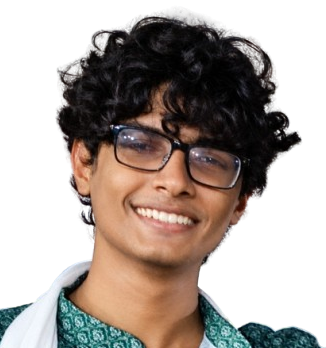
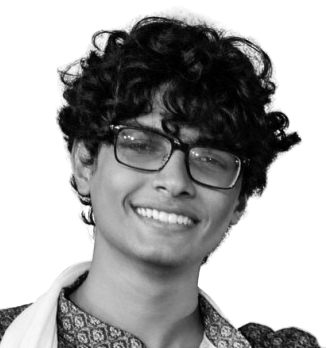
feat: enlarge typography across About section, make tab names always visible, and convert dither veil to grayscale

Changed region(s): [[0.184, 0.2299, 0.9816, 1.0], [0.0, 0.8621, 0.092, 0.977], [0.3374, 0.3448, 0.3681, 0.3736]]

diff --git a/components/about/AboutCanvas.tsx b/components/about/AboutCanvas.tsx
@@ -5,15 +5,6 @@ import DitherVeil from "@/components/effects/DitherVeil";
 import SegmentedHalo from "@/components/about/SegmentedHalo";
 import { ABOUT_SECTIONS, AboutSection } from "@/data/aboutSections";
 
-const CARD_TAGS = [
-  { index: "01", label: "AI / ML", targetCode: "AI / ML" },
-  { index: "02", label: "SYSTEMS", targetCode: "SYSTEMS" },
-  { index: "03", label: "INTELLIGENT APPLICATIONS", targetCode: "BUILDING" },
-  { index: "04", label: "ENGINEERING", targetCode: "ENGINEERING" },
-  { index: "05", label: "RESEARCH", targetCode: "MILESTONES" },
-  { index: "06", label: "EXPLORATION", targetCode: "CURIOSITY" },
-];
-
 export default function AboutCanvas() {
   const [activeSection, setActiveSection] = useState<AboutSection | null>(null);
 
@@ -53,14 +44,14 @@ export default function AboutCanvas() {
           levels={2}
           palette="duotone"
           inkColor="#0a0a0d"
-          paperColor="#d49b6a"
-          contrast={1.2}
+          paperColor="#f2f2f5"
+          contrast={1.25}
           brightness={0}
           revealRadius={250}
           softness={0.65}
           linger={1.0}
-          rimColor="#d49b6a"
-          rim={0.05}
+          rimColor="#ffffff"
+          rim={0.03}
           reverse={false}
           wander={false}
           clickBurst={true}
@@ -71,74 +62,97 @@ export default function AboutCanvas() {
       </div>
 
       {/* Floating Dynamic Telemetry / Section HUD Readout at the bottom */}
-      <div className="absolute bottom-3 sm:bottom-5 left-1/2 -translate-x-1/2 z-30 w-[calc(100%-2rem)] max-w-xl px-2 pointer-events-none">
-        <div className="pointer-events-auto rounded-2xl border border-white/12 bg-background/90 backdrop-blur-xl p-3.5 sm:p-4 text-center shadow-[0_8px_32px_rgba(0,0,0,0.9),_0_0_20px_rgba(212,155,106,0.12)] transition-all duration-300">
+      <div className="absolute bottom-3 sm:bottom-5 left-1/2 -translate-x-1/2 z-30 w-[calc(100%-2rem)] max-w-2xl sm:max-w-3xl px-2 pointer-events-none">
+        <div className="pointer-events-auto rounded-2xl border border-white/15 bg-background/95 backdrop-blur-2xl p-4 sm:p-5 text-center shadow-[0_12px_40px_rgba(0,0,0,0.95),_0_0_24px_rgba(212,155,106,0.18)] transition-all duration-300">
           {activeSection ? (
-            <div className="space-y-1 sm:space-y-1.5 animate-fadeIn">
+            <div className="space-y-2 sm:space-y-2.5 animate-fadeIn">
               <div className="flex items-center justify-between px-1">
                 <div className="flex items-center gap-2">
-                  <span className="font-mono text-[10px] text-accent tracking-widest uppercase">
+                  <span className="font-mono text-xs sm:text-sm text-accent tracking-widest uppercase font-semibold">
                     {activeSection.coordinate}
                   </span>
-                  <span className="inline-block w-1.5 h-1.5 rounded-full bg-accent animate-pulse" />
+                  <span className="inline-block w-2 h-2 rounded-full bg-accent animate-pulse" />
                 </div>
                 <button
                   onClick={() => setActiveSection(null)}
-                  className="font-mono text-[10px] text-muted/60 hover:text-accent uppercase transition-colors px-1.5 py-0.5 rounded border border-white/5 bg-white/[0.02]"
+                  className="font-mono text-xs sm:text-sm text-muted/80 hover:text-accent uppercase transition-colors px-2.5 py-1 rounded-md border border-white/10 bg-white/[0.04]"
                   aria-label="Return to central identity card"
                 >
                   ✕ Close
                 </button>
               </div>
-              <h2 className="text-base sm:text-lg font-light tracking-wide text-foreground uppercase">
+
+              <h2 className="text-xl sm:text-2xl md:text-3xl font-light tracking-wide text-foreground uppercase">
                 {activeSection.title}
               </h2>
-              <p className="text-xs font-mono text-accent/90 italic max-w-lg mx-auto">
+
+              <p className="text-sm sm:text-base font-mono text-accent italic max-w-xl mx-auto">
                 {activeSection.tagline}
               </p>
-              <div className="text-xs text-muted/90 leading-relaxed max-w-xl mx-auto pt-1 max-h-[26vh] overflow-y-auto whitespace-pre-line text-left px-1 sm:px-3">
+
+              <div className="text-sm sm:text-base text-muted/95 leading-relaxed max-w-2xl mx-auto pt-1 max-h-[28vh] overflow-y-auto whitespace-pre-line text-left px-2 sm:px-4">
                 {activeSection.description}
               </div>
-              <div className="flex flex-wrap items-center justify-center gap-1.5 pt-1">
+
+              <div className="flex flex-wrap items-center justify-center gap-2 pt-1">
                 {activeSection.tags.map((tag) => (
                   <span
                     key={tag}
-                    className="text-[9px] font-mono px-2 py-0.5 rounded-full border border-accent/25 bg-accent/10 text-accent"
+                    className="text-xs sm:text-sm font-mono px-3 py-1 rounded-full border border-accent/30 bg-accent/10 text-accent font-medium"
                   >
                     #{tag}
                   </span>
                 ))}
               </div>
-            </div>
-          ) : (
-            <div className="space-y-1.5 text-muted animate-fadeIn">
-              <div className="flex items-center justify-center gap-2">
-                <span className="font-mono text-[10px] tracking-widest text-accent uppercase">
-                  AI / ML · SYSTEMS · ENGINEERING
-                </span>
-                <span className="inline-block w-1.5 h-1.5 rounded-full bg-accent animate-pulse" />
-              </div>
-              <h2 className="text-base sm:text-lg font-light tracking-wide text-foreground uppercase">
-                DOMINIC THOMAS
-              </h2>
-              <p className="text-xs text-muted/90 leading-relaxed max-w-xl mx-auto pt-0.5">
-                I enjoy building intelligent systems, exploring unfamiliar technologies, and bringing complex ideas into working reality. My work spans AI/ML, intelligent applications, software infrastructure, and robotics, united by a simple instinct: understand the problem, figure out what it takes, and build something that works.
-              </p>
-              <div className="flex flex-wrap items-center justify-center gap-1.5 pt-1.5 opacity-80">
-                {CARD_TAGS.map((tag) => {
-                  const targetSec = ABOUT_SECTIONS.find(
-                    (s) => s.shortCode === tag.targetCode
-                  );
+
+              {/* Tab navigation strip always visible */}
+              <div className="flex flex-wrap items-center justify-center gap-1.5 sm:gap-2 pt-2 border-t border-white/10">
+                {ABOUT_SECTIONS.map((s) => {
+                  const isCurrent = activeSection.id === s.id;
                   return (
                     <button
-                      key={tag.index}
-                      onClick={() => targetSec && setActiveSection(targetSec)}
-                      className="text-[9px] font-mono px-2 py-0.5 rounded border border-white/10 bg-white/[0.03] hover:border-accent/40 hover:text-accent transition-colors"
+                      key={s.id}
+                      onClick={() => setActiveSection(isCurrent ? null : s)}
+                      className={`text-xs sm:text-sm font-mono px-2.5 sm:px-3 py-1 sm:py-1.5 rounded-lg border transition-all font-medium ${
+                        isCurrent
+                          ? "border-accent bg-accent/20 text-accent shadow-[0_0_12px_rgba(212,155,106,0.4)]"
+                          : "border-white/10 bg-white/[0.03] text-foreground/80 hover:border-accent/50 hover:text-accent"
+                      }`}
                     >
-                      {tag.index} {tag.label}
+                      {s.index} {s.shortCode}
                     </button>
                   );
                 })}
+              </div>
+            </div>
+          ) : (
+            <div className="space-y-2 sm:space-y-2.5 text-muted animate-fadeIn">
+              <div className="flex items-center justify-center gap-2">
+                <span className="font-mono text-xs sm:text-sm tracking-widest text-accent uppercase font-semibold">
+                  AI / ML · SYSTEMS · ENGINEERING
+                </span>
+                <span className="inline-block w-2 h-2 rounded-full bg-accent animate-pulse" />
+              </div>
+
+              <h2 className="text-2xl sm:text-3xl md:text-4xl font-light tracking-wider text-foreground uppercase">
+                DOMINIC THOMAS
+              </h2>
+
+              <p className="text-sm sm:text-base text-muted/95 leading-relaxed max-w-2xl mx-auto pt-0.5">
+                I enjoy building intelligent systems, exploring unfamiliar technologies, and bringing complex ideas into working reality. My work spans AI/ML, intelligent applications, software infrastructure, and robotics, united by a simple instinct: understand the problem, figure out what it takes, and build something that works.
+              </p>
+
+              {/* All 8 Sectors always visible as prominent tabs */}
+              <div className="flex flex-wrap items-center justify-center gap-1.5 sm:gap-2 pt-2 border-t border-white/10">
+                {ABOUT_SECTIONS.map((s) => (
+                  <button
+                    key={s.id}
+                    onClick={() => setActiveSection(s)}
+                    className="text-xs sm:text-sm font-mono px-2.5 sm:px-3 py-1 sm:py-1.5 rounded-lg border border-white/10 bg-white/[0.03] hover:border-accent/60 hover:text-accent hover:bg-accent/10 transition-all font-medium text-foreground/85"
+                  >
+                    {s.index} {s.shortCode}
+                  </button>
+                ))}
               </div>
             </div>
           )}

diff --git a/components/about/SegmentedHalo.tsx b/components/about/SegmentedHalo.tsx
@@ -163,8 +163,8 @@ export default function SegmentedHalo({
             <stop offset="100%" stopColor="#d49b6a" stopOpacity="0.16" />
           </linearGradient>
           <linearGradient id="halo-grad-idle" x1="0%" y1="0%" x2="100%" y2="100%">
-            <stop offset="0%" stopColor="#ffffff" stopOpacity="0.04" />
-            <stop offset="100%" stopColor="#d49b6a" stopOpacity="0.02" />
+            <stop offset="0%" stopColor="#ffffff" stopOpacity="0.09" />
+            <stop offset="100%" stopColor="#d49b6a" stopOpacity="0.07" />
           </linearGradient>
 
           {/* Left Lane Active Highlight (from outer screen edge to arc) */}
@@ -335,58 +335,62 @@ export default function SegmentedHalo({
                   2. Horizontal Technical Projection Beam
                   Projects horizontally outward from the arc to the screen edge.
                 */}
+                {/* 
+                  2. Horizontal Technical Projection Beam
+                  Projects horizontally outward from the arc to the screen edge.
+                */}
                 <g className="pointer-events-none transition-all duration-300">
                   <line
                     x1={pOuterMid.x + dx}
                     y1={pOuterMid.y + dy}
                     x2={beamEndX}
                     y2={pOuterMid.y + dy}
-                    stroke={isHovered ? "#d49b6a" : "rgba(255, 255, 255, 0.12)"}
-                    strokeWidth={isHovered ? 1.5 : 1}
-                    strokeDasharray={isHovered ? "none" : "3 6"}
+                    stroke={isHovered ? "#d49b6a" : "rgba(212, 155, 106, 0.45)"}
+                    strokeWidth={isHovered ? 2.5 : 1.5}
+                    strokeDasharray={isHovered ? "none" : "4 6"}
                     className="transition-colors duration-300"
                     style={{
                       filter: isHovered
-                        ? "drop-shadow(0 0 6px rgba(212, 155, 106, 0.6))"
-                        : "none",
+                        ? "drop-shadow(0 0 8px rgba(212, 155, 106, 0.8))"
+                        : "drop-shadow(0 0 2px rgba(0, 0, 0, 0.6))",
                     }}
                   />
 
                   {/* Outer Technical Terminal Bracket & Crosshair Tick */}
                   <line
                     x1={beamEndX}
-                    y1={pOuterMid.y + dy - 12}
+                    y1={pOuterMid.y + dy - 18}
                     x2={beamEndX}
-                    y2={pOuterMid.y + dy + 12}
-                    stroke={isHovered ? "#d49b6a" : "rgba(255, 255, 255, 0.16)"}
-                    strokeWidth={isHovered ? 2 : 1}
+                    y2={pOuterMid.y + dy + 22}
+                    stroke={isHovered ? "#d49b6a" : "rgba(212, 155, 106, 0.6)"}
+                    strokeWidth={isHovered ? 3 : 2}
                     className="transition-colors duration-300"
                   />
 
-                  {/* Outer Technical Label Readout in the Horizontal Section */}
+                  {/* Outer Technical Label Readout in the Horizontal Section (Always visible, prominent font) */}
                   <text
                     x={labelX}
-                    y={pOuterMid.y + dy - 8}
+                    y={pOuterMid.y + dy - 10}
                     textAnchor={isLeft ? "start" : "end"}
-                    className={`font-mono text-[11px] tracking-widest uppercase transition-all duration-300 ${
+                    className={`font-mono text-[14px] sm:text-[15px] tracking-wider uppercase transition-all duration-300 ${
                       isHovered
-                        ? "fill-accent font-bold drop-shadow-[0_0_8px_rgba(212,155,106,0.6)]"
-                        : "fill-foreground/55 font-medium"
+                        ? "fill-accent font-bold drop-shadow-[0_0_10px_rgba(212,155,106,0.9)]"
+                        : "fill-foreground font-semibold drop-shadow-[0_0_6px_rgba(0,0,0,0.9)]"
                     }`}
                   >
-                    {`${sec.index} // ${sec.shortCode}`}
+                    {`${sec.index} // ${sec.shortCode} — ${sec.title}`}
                   </text>
                   <text
                     x={labelX}
-                    y={pOuterMid.y + dy + 14}
+                    y={pOuterMid.y + dy + 16}
                     textAnchor={isLeft ? "start" : "end"}
-                    className={`font-mono text-[9px] tracking-wider uppercase transition-all duration-300 ${
+                    className={`font-mono text-[11px] sm:text-[12px] tracking-wide transition-all duration-300 ${
                       isHovered
-                        ? "fill-foreground/90 font-medium"
-                        : "fill-muted/40 font-normal"
+                        ? "fill-accent/95 font-medium"
+                        : "fill-muted font-normal drop-shadow-[0_0_4px_rgba(0,0,0,0.8)]"
                     }`}
                   >
-                    {isHovered ? sec.tagline : `#{sec.tags[0]} · #{sec.tags[1]}`}
+                    {sec.tagline}
                   </text>
                 </g>
 
@@ -409,8 +413,8 @@ export default function SegmentedHalo({
                   <path
                     d={arcPath}
                     fill={isHovered ? "url(#halo-grad-active)" : "url(#halo-grad-idle)"}
-                    stroke={isHovered ? "#d49b6a" : "rgba(255, 255, 255, 0.14)"}
-                    strokeWidth={isHovered ? 2 : 1}
+                    stroke={isHovered ? "#d49b6a" : "rgba(212, 155, 106, 0.3)"}
+                    strokeWidth={isHovered ? 2.5 : 1.5}
                     className="transition-colors duration-300"
                   />
 
@@ -437,19 +441,19 @@ export default function SegmentedHalo({
                   >
                     <circle
                       cx="0"
-                      cy="-7"
-                      r={isHovered ? 3.5 : 2}
-                      fill={isHovered ? "#d49b6a" : "rgba(255,255,255,0.45)"}
+                      cy="-10"
+                      r={isHovered ? 5 : 3.5}
+                      fill={isHovered ? "#d49b6a" : "rgba(212,155,106,0.85)"}
                       className="transition-all duration-300"
                     />
                     <text
                       x="0"
-                      y="7"
+                      y="10"
                       textAnchor="middle"
-                      className={`font-mono text-[9.5px] tracking-wider uppercase transition-colors duration-300 ${
+                      className={`font-mono text-[13px] tracking-wider uppercase transition-colors duration-300 ${
                         isHovered
-                          ? "fill-accent font-bold"
-                          : "fill-foreground/75 font-medium"
+                          ? "fill-accent font-extrabold drop-shadow-[0_0_8px_rgba(212,155,106,0.9)]"
+                          : "fill-foreground font-bold drop-shadow-[0_0_4px_rgba(0,0,0,0.8)]"
                       }`}
                     >
                       {sec.index} · {sec.shortCode}
